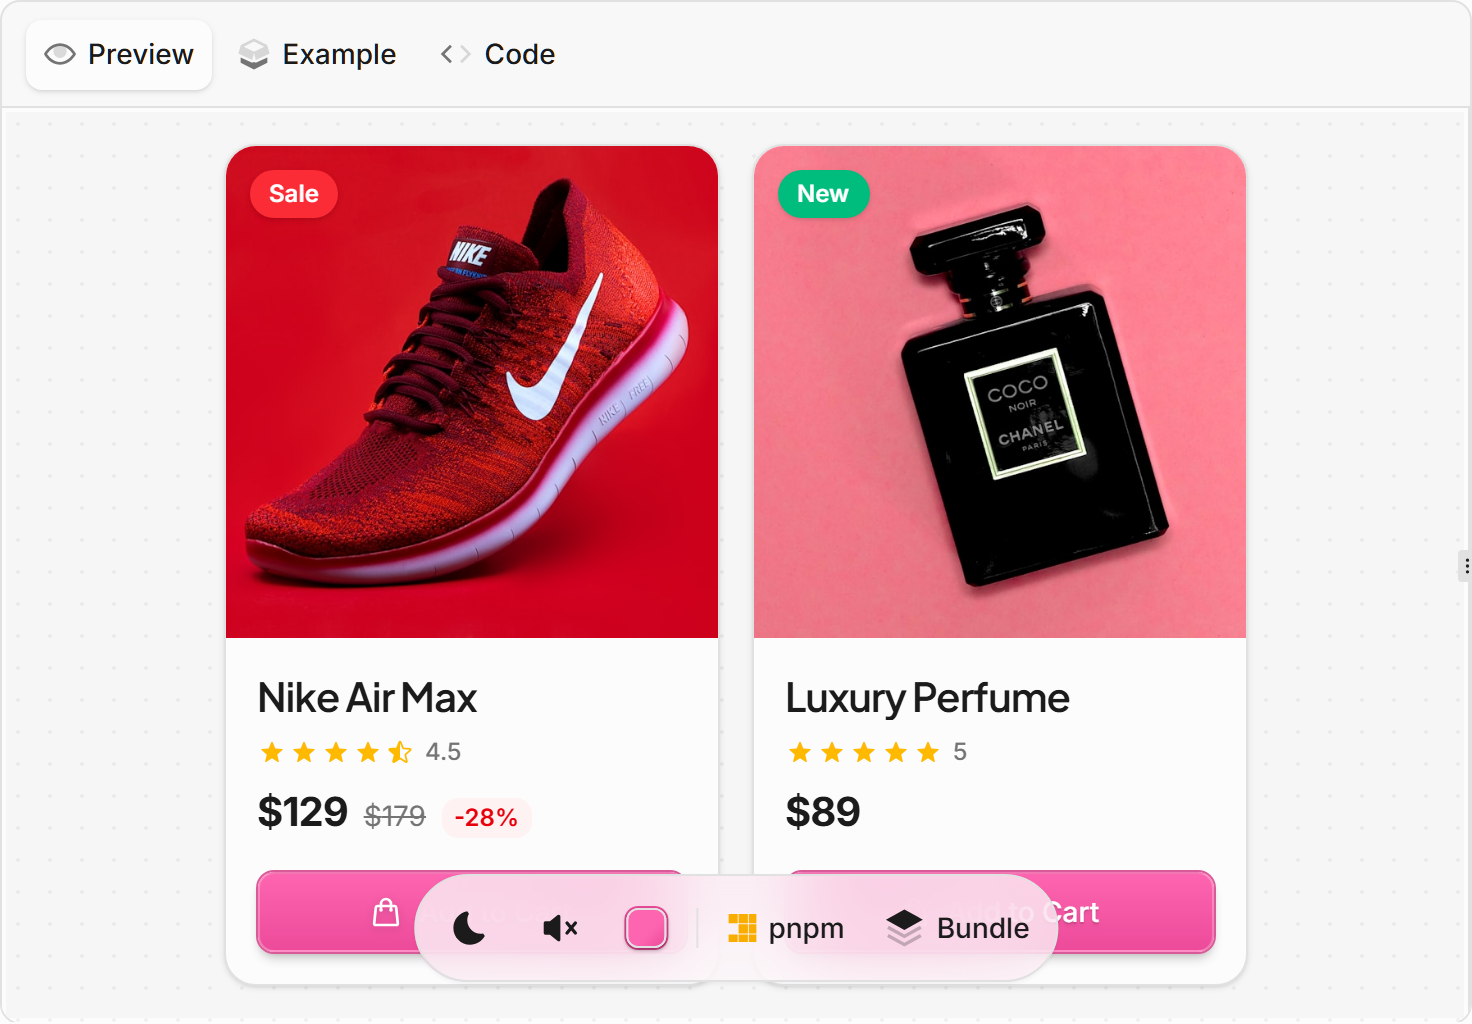
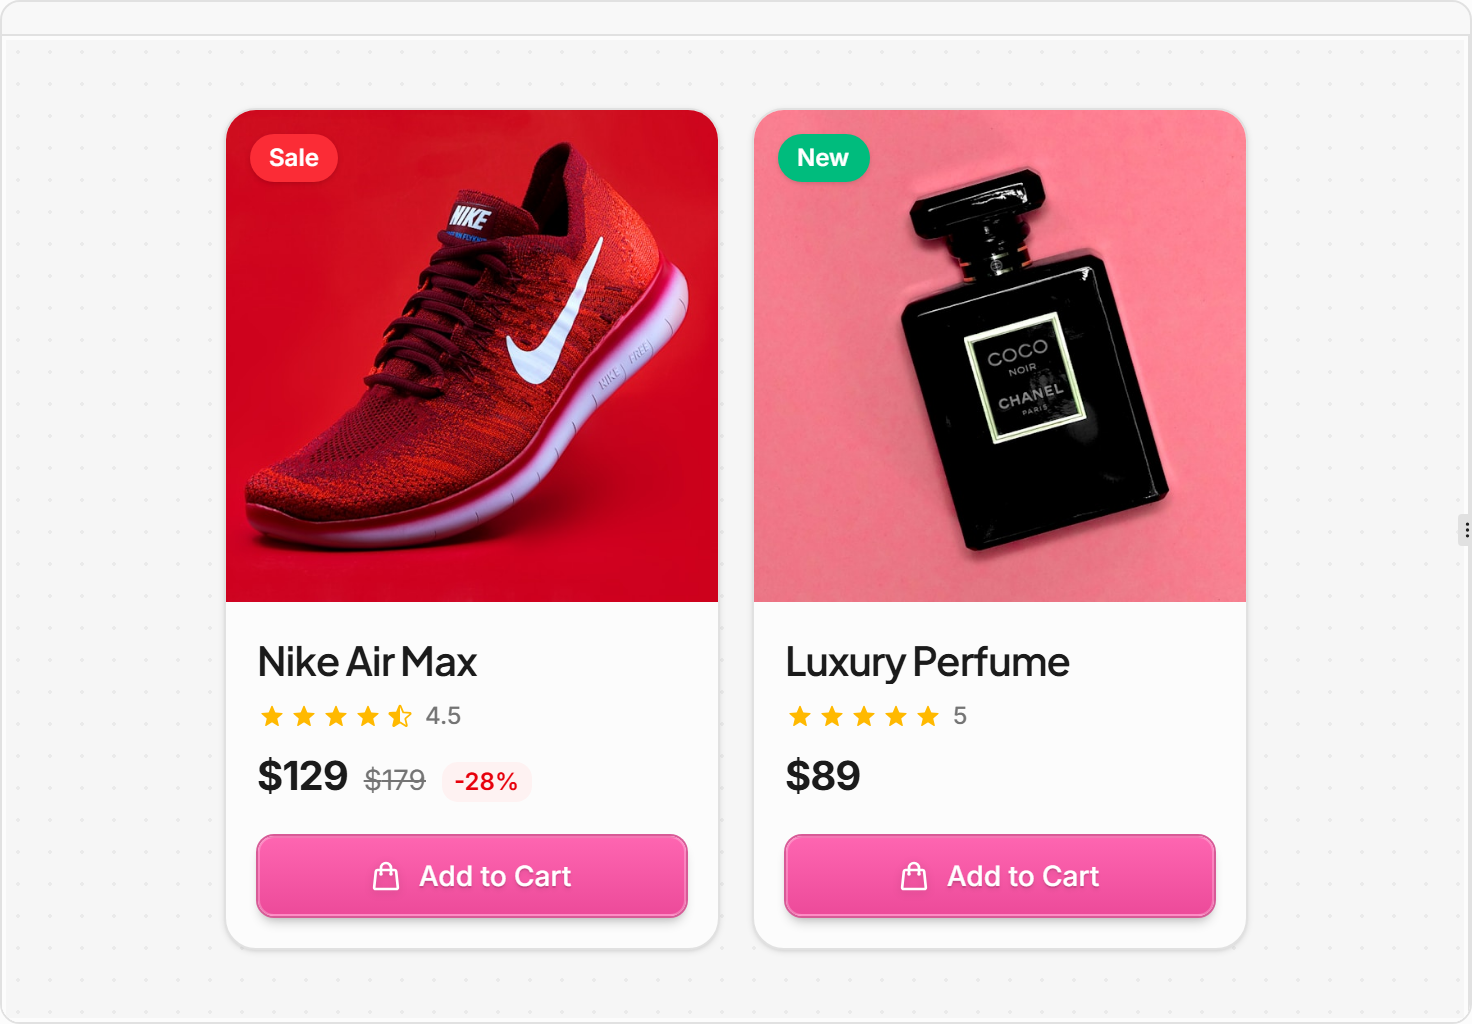
Add SmoothUI + SeraUI clean screenshot previews, gitignore node_modules

Changed region(s): [[0.1562, 0.0938, 0.8438, 0.9375], [0.0312, 0.0312, 0.2812, 0.0625], [0.3125, 0.0312, 0.375, 0.0625]]

diff --git a/cards.html b/cards.html
@@ -42,13 +42,13 @@ body { background: #0B0F19; color: #e0e0e0; font-family: -apple-system, BlinkMac
     <div class="card" data-search="tooltip card #21 cards"><div class="preview"><img src="https://assets.aceternity.com/tooltip-card.webp" loading="lazy" alt="Tooltip Card" onerror="this.style.display='none';this.nextElementSibling.style.display='flex'"><div class="placeholder" style="display:none">Preview Error</div></div><div class="label"><span class="name">Tooltip Card</span><span class="num">#21</span></div></div>
     <div class="card" data-search="wobble card #22 cards"><div class="preview"><img src="https://assets.aceternity.com/wobble-card.webp" loading="lazy" alt="Wobble Card" onerror="this.style.display='none';this.nextElementSibling.style.display='flex'"><div class="placeholder" style="display:none">Preview Error</div></div><div class="label"><span class="name">Wobble Card</span><span class="num">#22</span></div></div>
     <div class="card" data-search="magic card #23 cards"><div class="preview"><a class="link-card" href="https://magicui.design/docs/components/magic-card" target="_blank" rel="noopener"><div class="link-icon">&#8599;</div><div class="link-text">View Demo</div></a></div><div class="label"><span class="name">Magic Card</span><span class="num">#23</span></div></div>
-    <div class="card" data-search="app download stack #39 cards"><div class="preview"><a class="link-card" href="https://www.smoothui.dev/docs/components/app-download-stack" target="_blank" rel="noopener"><div class="link-icon">&#8599;</div><div class="link-text">View Demo</div></a></div><div class="label"><span class="name">App Download Stack</span><span class="num">#39</span></div></div>
-    <div class="card" data-search="apple invites #40 cards"><div class="preview"><a class="link-card" href="https://www.smoothui.dev/docs/components/apple-invites" target="_blank" rel="noopener"><div class="link-icon">&#8599;</div><div class="link-text">View Demo</div></a></div><div class="label"><span class="name">Apple Invites</span><span class="num">#40</span></div></div>
-    <div class="card" data-search="book #41 cards"><div class="preview"><a class="link-card" href="https://www.smoothui.dev/docs/components/book" target="_blank" rel="noopener"><div class="link-icon">&#8599;</div><div class="link-text">View Demo</div></a></div><div class="label"><span class="name">Book</span><span class="num">#41</span></div></div>
-    <div class="card" data-search="glow hover card #42 cards"><div class="preview"><a class="link-card" href="https://www.smoothui.dev/docs/components/glow-hover-card" target="_blank" rel="noopener"><div class="link-icon">&#8599;</div><div class="link-text">View Demo</div></a></div><div class="label"><span class="name">Glow Hover Card</span><span class="num">#42</span></div></div>
-    <div class="card" data-search="image metadata preview #43 cards"><div class="preview"><a class="link-card" href="https://www.smoothui.dev/docs/components/image-metadata-preview" target="_blank" rel="noopener"><div class="link-icon">&#8599;</div><div class="link-text">View Demo</div></a></div><div class="label"><span class="name">Image Metadata Preview</span><span class="num">#43</span></div></div>
-    <div class="card" data-search="product card #44 cards"><div class="preview"><a class="link-card" href="https://www.smoothui.dev/docs/components/product-card" target="_blank" rel="noopener"><div class="link-icon">&#8599;</div><div class="link-text">View Demo</div></a></div><div class="label"><span class="name">Product Card</span><span class="num">#44</span></div></div>
-    <div class="card" data-search="scrollable card stack #45 cards"><div class="preview"><a class="link-card" href="https://www.smoothui.dev/docs/components/scrollable-card-stack" target="_blank" rel="noopener"><div class="link-icon">&#8599;</div><div class="link-text">View Demo</div></a></div><div class="label"><span class="name">Scrollable Card Stack</span><span class="num">#45</span></div></div>
+    <div class="card" data-search="app download stack #39 cards"><div class="preview"><img src="previews/cards--39.png" loading="lazy" alt="App Download Stack" onerror="this.style.display='none';this.nextElementSibling.style.display='flex'"><div class="placeholder" style="display:none">Preview Error</div></div><div class="label"><span class="name">App Download Stack</span><span class="num">#39</span></div></div>
+    <div class="card" data-search="apple invites #40 cards"><div class="preview"><img src="previews/cards--40.png" loading="lazy" alt="Apple Invites" onerror="this.style.display='none';this.nextElementSibling.style.display='flex'"><div class="placeholder" style="display:none">Preview Error</div></div><div class="label"><span class="name">Apple Invites</span><span class="num">#40</span></div></div>
+    <div class="card" data-search="book #41 cards"><div class="preview"><img src="previews/cards--41.png" loading="lazy" alt="Book" onerror="this.style.display='none';this.nextElementSibling.style.display='flex'"><div class="placeholder" style="display:none">Preview Error</div></div><div class="label"><span class="name">Book</span><span class="num">#41</span></div></div>
+    <div class="card" data-search="glow hover card #42 cards"><div class="preview"><img src="previews/cards--42.png" loading="lazy" alt="Glow Hover Card" onerror="this.style.display='none';this.nextElementSibling.style.display='flex'"><div class="placeholder" style="display:none">Preview Error</div></div><div class="label"><span class="name">Glow Hover Card</span><span class="num">#42</span></div></div>
+    <div class="card" data-search="image metadata preview #43 cards"><div class="preview"><img src="previews/cards--43.png" loading="lazy" alt="Image Metadata Preview" onerror="this.style.display='none';this.nextElementSibling.style.display='flex'"><div class="placeholder" style="display:none">Preview Error</div></div><div class="label"><span class="name">Image Metadata Preview</span><span class="num">#43</span></div></div>
+    <div class="card" data-search="product card #44 cards"><div class="preview"><img src="previews/cards--44.png" loading="lazy" alt="Product Card" onerror="this.style.display='none';this.nextElementSibling.style.display='flex'"><div class="placeholder" style="display:none">Preview Error</div></div><div class="label"><span class="name">Product Card</span><span class="num">#44</span></div></div>
+    <div class="card" data-search="scrollable card stack #45 cards"><div class="preview"><img src="previews/cards--45.png" loading="lazy" alt="Scrollable Card Stack" onerror="this.style.display='none';this.nextElementSibling.style.display='flex'"><div class="placeholder" style="display:none">Preview Error</div></div><div class="label"><span class="name">Scrollable Card Stack</span><span class="num">#45</span></div></div>
     <div class="card" data-search="tweet card #46 cards"><div class="preview"><a class="link-card" href="https://www.smoothui.dev/docs/components/tweet-card" target="_blank" rel="noopener"><div class="link-icon">&#8599;</div><div class="link-text">View Demo</div></a></div><div class="label"><span class="name">Tweet Card</span><span class="num">#46</span></div></div>
     <div class="card" data-search="blog cards 1 #47 cards"><div class="preview"><a class="link-card" href="https://www.hyperui.dev" target="_blank" rel="noopener"><div class="link-icon">&#8599;</div><div class="link-text">View Demo</div></a></div><div class="label"><span class="name">Blog Cards 1</span><span class="num">#47</span></div></div>
     <div class="card" data-search="blog cards 1 #48 cards"><div class="preview"><a class="link-card" href="https://www.hyperui.dev" target="_blank" rel="noopener"><div class="link-icon">&#8599;</div><div class="link-text">View Demo</div></a></div><div class="label"><span class="name">Blog Cards 1</span><span class="num">#48</span></div></div>

diff --git a/buttons.html b/buttons.html
@@ -25,11 +25,11 @@ body { background: #0B0F19; color: #e0e0e0; font-family: -apple-system, BlinkMac
     <div class="card" data-search="pulsating button #04 buttons"><div class="preview"><a class="link-card" href="https://ui.aceternity.com/components/pulsating-button" target="_blank" rel="noopener"><div class="link-icon">&#8599;</div><div class="link-text">View Demo</div></a></div><div class="label"><span class="name">Pulsating Button</span><span class="num">#04</span></div></div>
     <div class="card" data-search="rainbow button #05 buttons"><div class="preview"><a class="link-card" href="https://ui.aceternity.com/components/rainbow-button" target="_blank" rel="noopener"><div class="link-icon">&#8599;</div><div class="link-text">View Demo</div></a></div><div class="label"><span class="name">Rainbow Button</span><span class="num">#05</span></div></div>
     <div class="card" data-search="shimmer button #06 buttons"><div class="preview"><img src="previews/buttons--06.png" loading="lazy" alt="Shimmer Button" onerror="this.style.display='none';this.nextElementSibling.style.display='flex'"><div class="placeholder" style="display:none">Preview Error</div></div><div class="label"><span class="name">Shimmer Button</span><span class="num">#06</span></div></div>
-    <div class="card" data-search="clip corners button #20 buttons"><div class="preview"><a class="link-card" href="https://smoothui.dev/docs/components/clip-corners-button" target="_blank" rel="noopener"><div class="link-icon">&#8599;</div><div class="link-text">View Demo</div></a></div><div class="label"><span class="name">Clip Corners Button</span><span class="num">#20</span></div></div>
-    <div class="card" data-search="dot morph button #21 buttons"><div class="preview"><a class="link-card" href="https://smoothui.dev/docs/components/dot-morph-button" target="_blank" rel="noopener"><div class="link-icon">&#8599;</div><div class="link-text">View Demo</div></a></div><div class="label"><span class="name">Dot Morph Button</span><span class="num">#21</span></div></div>
-    <div class="card" data-search="smooth button #22 buttons"><div class="preview"><a class="link-card" href="https://smoothui.dev/docs/components/smooth-button" target="_blank" rel="noopener"><div class="link-icon">&#8599;</div><div class="link-text">View Demo</div></a></div><div class="label"><span class="name">Smooth Button</span><span class="num">#22</span></div></div>
-    <div class="card" data-search="glow button glow button #23 buttons"><div class="preview"><a class="link-card" href="https://seraui.com/docs/glow-button" target="_blank" rel="noopener"><div class="link-icon">&#8599;</div><div class="link-text">View Demo</div></a></div><div class="label"><span class="name">Glow Button Glow Button</span><span class="num">#23</span></div></div>
-    <div class="card" data-search="modern button #24 buttons"><div class="preview"><a class="link-card" href="https://seraui.com/docs/glow-button" target="_blank" rel="noopener"><div class="link-icon">&#8599;</div><div class="link-text">View Demo</div></a></div><div class="label"><span class="name">Modern Button</span><span class="num">#24</span></div></div>
+    <div class="card" data-search="clip corners button #20 buttons"><div class="preview"><img src="previews/buttons--20.png" loading="lazy" alt="Clip Corners Button" onerror="this.style.display='none';this.nextElementSibling.style.display='flex'"><div class="placeholder" style="display:none">Preview Error</div></div><div class="label"><span class="name">Clip Corners Button</span><span class="num">#20</span></div></div>
+    <div class="card" data-search="dot morph button #21 buttons"><div class="preview"><img src="previews/buttons--21.png" loading="lazy" alt="Dot Morph Button" onerror="this.style.display='none';this.nextElementSibling.style.display='flex'"><div class="placeholder" style="display:none">Preview Error</div></div><div class="label"><span class="name">Dot Morph Button</span><span class="num">#21</span></div></div>
+    <div class="card" data-search="smooth button #22 buttons"><div class="preview"><img src="previews/buttons--22.png" loading="lazy" alt="Smooth Button" onerror="this.style.display='none';this.nextElementSibling.style.display='flex'"><div class="placeholder" style="display:none">Preview Error</div></div><div class="label"><span class="name">Smooth Button</span><span class="num">#22</span></div></div>
+    <div class="card" data-search="glow button glow button #23 buttons"><div class="preview"><img src="previews/buttons--23.png" loading="lazy" alt="Glow Button Glow Button" onerror="this.style.display='none';this.nextElementSibling.style.display='flex'"><div class="placeholder" style="display:none">Preview Error</div></div><div class="label"><span class="name">Glow Button Glow Button</span><span class="num">#23</span></div></div>
+    <div class="card" data-search="modern button #24 buttons"><div class="preview"><img src="previews/buttons--24.png" loading="lazy" alt="Modern Button" onerror="this.style.display='none';this.nextElementSibling.style.display='flex'"><div class="placeholder" style="display:none">Preview Error</div></div><div class="label"><span class="name">Modern Button</span><span class="num">#24</span></div></div>
     <div class="card" data-search="modern button button2 #25 buttons"><div class="preview"><a class="link-card" href="https://seraui.com/docs/glow-button" target="_blank" rel="noopener"><div class="link-icon">&#8599;</div><div class="link-text">View Demo</div></a></div><div class="label"><span class="name">Modern Button Button2</span><span class="num">#25</span></div></div>
     <div class="card" data-search="retro button components interactivedemo #26 buttons"><div class="preview"><a class="link-card" href="https://seraui.com/docs/glow-button" target="_blank" rel="noopener"><div class="link-icon">&#8599;</div><div class="link-text">View Demo</div></a></div><div class="label"><span class="name">Retro Button Components Interactivedemo</span><span class="num">#26</span></div></div>
     <div class="card" data-search="retro button retro btn #27 buttons"><div class="preview"><a class="link-card" href="https://seraui.com/docs/glow-button" target="_blank" rel="noopener"><div class="link-icon">&#8599;</div><div class="link-text">View Demo</div></a></div><div class="label"><span class="name">Retro Button Retro Btn</span><span class="num">#27</span></div></div>

diff --git a/screenshot-pilot-v4.js b/screenshot-pilot-v4.js
@@ -1,0 +1,129 @@
+const { chromium } = require('playwright');
+const fs = require('fs');
+const path = require('path');
+
+const OUT_DIR = 'C:\\Users\\info\\Dropbox\\Projects\\component-catalog\\previews';
+
+const items = [
+  {key: 'Buttons #20', url: 'https://www.smoothui.dev/docs/components/clip-corners-button', lib: 'smoothui'},
+  {key: 'Buttons #21', url: 'https://www.smoothui.dev/docs/components/dot-morph-button', lib: 'smoothui'},
+  {key: 'Buttons #22', url: 'https://www.smoothui.dev/docs/components/smooth-button', lib: 'smoothui'},
+  {key: 'Cards #39', url: 'https://www.smoothui.dev/docs/components/app-download-stack', lib: 'smoothui'},
+  {key: 'Cards #40', url: 'https://www.smoothui.dev/docs/components/apple-invites', lib: 'smoothui'},
+  {key: 'Cards #41', url: 'https://www.smoothui.dev/docs/components/book', lib: 'smoothui'},
+  {key: 'Cards #42', url: 'https://www.smoothui.dev/docs/components/glow-hover-card', lib: 'smoothui'},
+  {key: 'Cards #43', url: 'https://www.smoothui.dev/docs/components/image-metadata-preview', lib: 'smoothui'},
+  {key: 'Cards #44', url: 'https://www.smoothui.dev/docs/components/product-card', lib: 'smoothui'},
+  {key: 'Cards #45', url: 'https://www.smoothui.dev/docs/components/scrollable-card-stack', lib: 'smoothui'},
+  {key: 'Cards #46', url: 'https://www.smoothui.dev/docs/components/tweet-card', lib: 'smoothui'},
+  {key: 'Hero Animations #39', url: 'https://seraui.com/docs/hero', lib: 'seraui'},
+  {key: 'Buttons #23', url: 'https://seraui.com/docs/glow-button', lib: 'seraui'},
+  {key: 'Buttons #24', url: 'https://seraui.com/docs/modern-button', lib: 'seraui'},
+];
+
+(async () => {
+  if (!fs.existsSync(OUT_DIR)) fs.mkdirSync(OUT_DIR, {recursive: true});
+  const browser = await chromium.launch({headless: true});
+  const context = await browser.newContext({viewport: {width: 1280, height: 800}, deviceScaleFactor: 2});
+  const results = [];
+
+  for (const item of items) {
+    const page = await context.newPage();
+    const filename = item.key.replace(/[# ]/g, '-').toLowerCase() + '.png';
+    const filepath = path.join(OUT_DIR, filename);
+    let status = 'unknown';
+
+    try {
+      await page.goto(item.url, {waitUntil: 'domcontentloaded', timeout: 30000});
+      await page.waitForTimeout(5000);
+
+      if (item.lib === 'smoothui') {
+        // Hide site chrome
+        await page.evaluate(() => {
+          document.querySelectorAll('header, nav, aside, footer, [class*="float"], [class*="toolbar"], [role="tablist"], [class*="tab-list"]').forEach(el => el.style.display = 'none');
+        });
+        await page.waitForTimeout(500);
+        
+        const selectors = ['.not-prose[class*="bg"]', '.frame-box', '[class*="not-prose"]'];
+        for (const sel of selectors) {
+          const el = await page.$(sel);
+          if (el) {
+            const box = await el.boundingBox();
+            if (box && box.width > 100 && box.height > 50) {
+              await el.screenshot({path: filepath, timeout: 15000});
+              status = 'ok:' + sel;
+              break;
+            }
+          }
+        }
+        if (status === 'unknown') {
+          const main = await page.$('main');
+          if (main) {
+            const box = await main.boundingBox();
+            if (box) {
+              await page.screenshot({path: filepath, clip: {x: box.x + 20, y: box.y + 200, width: box.width - 40, height: 350}});
+              status = 'clip-main';
+            }
+          }
+        }
+      } else if (item.lib === 'seraui') {
+        // Click Preview tab
+        await page.evaluate(() => {
+          for (const b of document.querySelectorAll('button')) {
+            if (b.textContent.trim() === 'Preview') { b.click(); break; }
+          }
+        });
+        await page.waitForTimeout(1500);
+        
+        // Hide site chrome
+        await page.evaluate(() => {
+          document.querySelectorAll('header, nav, aside, footer, [class*="sidebar"], [class*="Sidebar"], [role="tablist"], [class*="inline-flex"][class*="rounded-full"]').forEach(el => el.style.display = 'none');
+        });
+        await page.waitForTimeout(500);
+        
+        const selectors = ['div[class*="not-prose"][class*="rounded"]', 'div[class*="not-prose"][class*="grid"]', 'div[class*="not-prose"]'];
+        for (const sel of selectors) {
+          const el = await page.$(sel);
+          if (el) {
+            const box = await el.boundingBox();
+            if (box && box.width > 200 && box.height > 100) {
+              await el.screenshot({path: filepath, timeout: 15000});
+              status = 'ok:' + sel;
+              break;
+            }
+          }
+        }
+        if (status === 'unknown') {
+          const rect = await page.evaluate(() => {
+            for (const el of document.querySelectorAll('div')) {
+              const r = el.getBoundingClientRect();
+              if (r.top > 500 && r.width > 400 && r.height > 100 && r.height < 500) {
+                return {x: Math.round(r.x), y: Math.round(r.y), w: Math.round(r.width), h: Math.round(Math.min(r.height, 400))};
+              }
+            }
+            return null;
+          });
+          if (rect) {
+            await page.screenshot({path: filepath, clip: {x: rect.x, y: rect.y, width: rect.w, height: rect.h}});
+            status = 'clip';
+          } else {
+            status = 'no-shot';
+          }
+        }
+      } else {
+        status = 'no-match';
+      }
+    } catch (e) {
+      status = 'error:' + e.message.substring(0, 60);
+    }
+
+    results.push({key: item.key, status, file: filename});
+    await page.close();
+    console.log(`${item.key}: ${status}`);
+  }
+
+  await browser.close();
+  console.log('\n=== RESULTS ===');
+  for (const r of results) console.log(`${r.key}: ${r.status}`);
+  fs.writeFileSync(path.join(OUT_DIR, 'pilot-results-v4.json'), JSON.stringify(results, null, 2));
+})();
